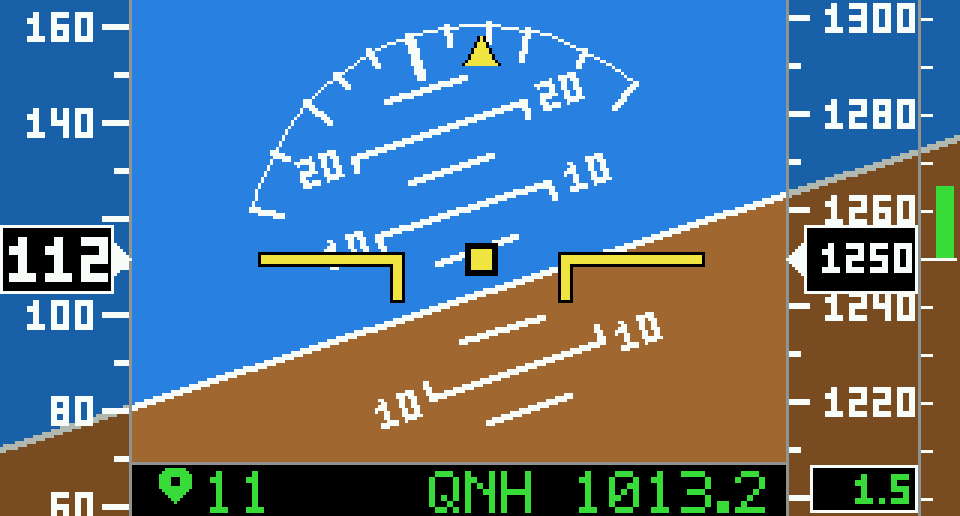
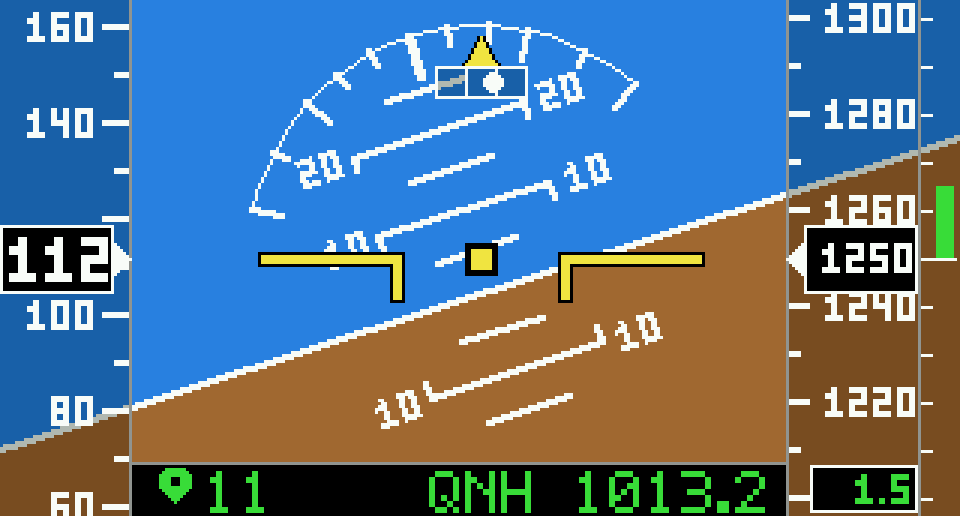
Lageschätzung: Mahony-Filter, Gyro-Bias, Slip-Kugel, GPS-Kompensation
Claude-Session: https://claude.ai/code/session_0141NmNNkgzSpP7MuuVZi8hL

Changed region(s): [[0.4375, 0.124, 0.5625, 0.2171]]

diff --git a/main/main.c b/main/main.c
@@ -367,6 +367,7 @@ typedef struct {
     bool  gps;                 // GPS empfängt gültige Daten
     int   sats;                // Anzahl Satelliten
     float qnh;                 // eingestelltes QNH in hPa
+    float slip;                // Kugel: -1 (links) .. +1 (rechts)
 } tapes_t;
 
 static void scale_init(void)
@@ -528,6 +529,25 @@ static void draw_status(const tapes_t *tp)
     draw_text(x1 - 8 - text_w(b, 2) + 1, y0 + 3, b, 2, COL_GREEN);
 }
 
+/* ---- Slip/Skid-Anzeige (Kugel) unter dem Rollzeiger ---- */
+static void draw_slip(float slip)
+{
+    const int bx = CX - 15, by = CY - ROLL_R + 14, bw = 31, bh = 11;
+    // shade(bx, bx + bw, by, by + bh);                   // halbtransparent wie die Bänder
+    box(bx, by, bw, 1, COL_WHITE);
+    box(bx, by + bh - 1, bw, 1, COL_WHITE);
+    box(bx, by, 1, bh, COL_WHITE);
+    box(bx + bw - 1, by, 1, bh, COL_WHITE);
+    box(CX - 5, by, 1, bh, COL_WHITE);                 // Mittenmarken
+    box(CX + 5, by, 1, bh, COL_WHITE);
+    if (slip > 1.0f) slip = 1.0f;
+    if (slip < -1.0f) slip = -1.0f;
+    const int cx = CX + (int)lroundf(slip * 10.0f), cy = by + bh / 2;
+    for (int dy = -3; dy <= 3; dy++)
+        for (int dx = -3; dx <= 3; dx++)
+            if (dx * dx + dy * dy <= 11) box(cx + dx, cy + dy, 1, 1, COL_WHITE);
+}
+
 static void render(float roll, float pitch, const tapes_t *tp)
 {
     const float s = sinf(roll), c = cosf(roll);
@@ -613,6 +633,7 @@ static void render(float roll, float pitch, const tapes_t *tp)
     draw_alt_tape(tp->alt_m, tp->alt_ok);
     draw_vario(tp->vs, tp->vs_ok);
     draw_status(tp);
+    draw_slip(tp->slip);
 
     // --- Flugzeugsymbol ---
     draw_aircraft(5, 2, COL_BLACK);
@@ -744,7 +765,154 @@ static void i2c_devices_init(void)
     }
 }
 
+#ifndef IMU_COMP_GAIN
+#define IMU_COMP_GAIN 1.0f      // 0 = Korrektur aus, -1 = Vorzeichen umkehren
+#endif
 static float g_roll = 0, g_pitch = 0;
+static float g_slip = 0;                    // gefilterte Kugelposition (-1..1)
+// GPS-Geschwindigkeit (m/s) und deren zeitliche Änderung, für die Beschleunigungskorrektur
+static float g_imu_v = 0, g_imu_vdot = 0;
+static bool  g_imu_vok = false;
+
+#ifndef IMU_ACC_TAU
+#define IMU_ACC_TAU 4.0f        // Zeitkonstante der Lagekorrektur durch den Beschleunigungssensor (s)
+#endif
+#ifndef IMU_CAL_TIME
+#define IMU_CAL_TIME 1.5f       // Dauer der Gyro-Kalibrierung nach dem Start (s), Gerät ruhig halten
+#endif
+
+/* ---- Lageschätzung: Mahony-Filter (Quaternion) mit Bias-Schätzung ---- */
+static float qw = 1, qx = 0, qy = 0, qz = 0;     // Lage Körper -> Erde (NED)
+static float g_bias[3] = {0, 0, 0};              // Gyro-Bias (rad/s), Achsen vorn/rechts/unten
+static bool  g_bias_new = false;                 // frisch kalibriert -> speichern
+static float g_trust = 0, g_roll_a = 0, g_pitch_a = 0;   // nur zur Diagnose im Log
+static float cal_t = 0, cal_sum[3], cal_min[3], cal_max[3];
+static int   cal_n = 0;
+static bool  cal_done = false;
+static float fast_t = 0;                         // Schnellausrichtung nach dem Start (s)
+
+/* ATT_BEGIN */
+static void att_from_euler(float r, float p)
+{
+    const float cr = cosf(r / 2), sr = sinf(r / 2), cp = cosf(p / 2), sp = sinf(p / 2);
+    qw = cr * cp; qx = sr * cp; qy = cr * sp; qz = -sr * sp;
+}
+
+static void att_fuse(float fx, float fy, float fz, float p, float q, float rr, float dt)
+{
+    if (dt > 0.1f) dt = 0.1f;
+    float gvx = -fx, gvy = -fy, gvz = -fz;           // gemessene "Lotrechte" (in g)
+
+    // Slip/Skid: seitliche Beschleunigung relativ zur Gesamtbeschleunigung (unkorrigiert, wie eine
+    // echte Libelle). Voller Ausschlag bei etwa 0,15 g.
+    {
+        float gn = sqrtf(gvx * gvx + gvy * gvy + gvz * gvz);
+        if (gn < 0.5f) gn = 0.5f;
+        float tgt = (gvy / gn) / 0.15f;
+        g_slip += (tgt - g_slip) * (dt / (0.25f + dt));
+    }
+
+    // --- Start: Gyro-Bias messen, solange das Gerät ruhig gehalten wird ---
+    if (!cal_done) {
+        const float gyro[3] = {p, q, rr};
+        if (cal_n == 0) {
+            for (int i = 0; i < 3; i++) { cal_sum[i] = 0; cal_min[i] = cal_max[i] = gyro[i]; }
+        }
+        for (int i = 0; i < 3; i++) {
+            cal_sum[i] += gyro[i];
+            if (gyro[i] < cal_min[i]) cal_min[i] = gyro[i];
+            if (gyro[i] > cal_max[i]) cal_max[i] = gyro[i];
+        }
+        cal_n++;
+        cal_t += dt;
+        // Lage währenddessen direkt aus dem Beschleunigungssensor
+        g_roll_a = atan2f(gvy, gvz);
+        g_pitch_a = atan2f(-gvx, sqrtf(gvy * gvy + gvz * gvz));
+        att_from_euler(g_roll_a, g_pitch_a);
+        if (cal_t >= IMU_CAL_TIME && cal_n >= 10) {
+            bool stable = true;
+            float mean[3];
+            for (int i = 0; i < 3; i++) {
+                mean[i] = cal_sum[i] / cal_n;
+                if (cal_max[i] - cal_min[i] > 0.12f || fabsf(mean[i]) > 0.1f) stable = false;
+            }
+            if (stable) {
+                for (int i = 0; i < 3; i++) g_bias[i] = mean[i];
+                g_bias_new = true;
+            }
+            cal_done = true;
+            fast_t = 3.0f;                           // 3 s lang schnell einrasten
+        }
+        g_roll = g_roll_a; g_pitch = g_pitch_a;
+        return;
+    }
+
+    const float wx = p - g_bias[0], wy = q - g_bias[1], wz = rr - g_bias[2];
+
+    // --- Fahrzeugbeschleunigung herausrechnen: a = w x V + dV/dt mit V = (v, 0, 0) ---
+    // Der Beschleunigungssensor misst Schwerkraft MINUS Fahrzeugbeschleunigung.
+    if (g_imu_vok && g_imu_v > 2.0f) {
+        gvx += IMU_COMP_GAIN * g_imu_vdot / 9.81f;           // Längsbeschleunigung
+        gvy += IMU_COMP_GAIN * wz * g_imu_v / 9.81f;         // Zentripetal (Kurve)
+        gvz -= IMU_COMP_GAIN * wy * g_imu_v / 9.81f;         // Zentripetal (Nicken)
+    }
+    const float gm = sqrtf(gvx * gvx + gvy * gvy + gvz * gvz);
+    g_roll_a = atan2f(gvy, gvz);
+    g_pitch_a = atan2f(-gvx, sqrtf(gvy * gvy + gvz * gvz));
+
+    // --- Vertrauen in den Beschleunigungssensor: nur bei ruhigem Geradeausflug hoch ---
+    float wgt = 1.0f - fabsf(gm - 1.0f) / 0.10f;             // Betrag nahe 1 g
+    if (wgt < 0.0f) wgt = 0.0f;
+    const float rate = sqrtf(wx * wx + wy * wy + wz * wz);   // Drehrate (rad/s)
+    const float wr = 1.0f / (1.0f + (rate / 0.15f) * (rate / 0.15f));
+    float wa = 1.0f;                                         // starkes Bremsen/Beschleunigen
+    if (g_imu_vok) { float k = g_imu_vdot / 1.5f; wa = 1.0f / (1.0f + k * k); }
+    const float trust = wgt * wr * wa;
+    g_trust = trust;
+
+    // geschätzte Lotrechte im Körpersystem
+    const float vx = 2 * (qx * qz - qw * qy);
+    const float vy = 2 * (qy * qz + qw * qx);
+    const float vz = qw * qw - qx * qx - qy * qy + qz * qz;
+    float cx = 0, cy = 0, cz = 0;                            // Korrekturdrehrate
+    if (gm > 0.3f) {
+        const float mx = gvx / gm, my = gvy / gm, mz = gvz / gm;
+        const float ex = my * vz - mz * vy;
+        const float ey = mz * vx - mx * vz;
+        const float ez = mx * vy - my * vx;
+        const float kp0 = 1.0f / IMU_ACC_TAU;
+        float kp = kp0 * trust;
+        if (fast_t > 0) {
+            fast_t -= dt;
+            if (kp < 2.0f * trust) kp = 2.0f * trust;        // Schnellausrichtung nach dem Start (nur bei ruhigem Zustand)
+        } else {
+            const float ki = 0.25f * kp0 * kp0 * trust;      // Bias nachlernen, nur bei hohem Vertrauen
+            g_bias[0] -= ki * ex * dt; g_bias[1] -= ki * ey * dt; g_bias[2] -= ki * ez * dt;
+            for (int i = 0; i < 3; i++) {
+                if (g_bias[i] > 0.1f) g_bias[i] = 0.1f;
+                if (g_bias[i] < -0.1f) g_bias[i] = -0.1f;
+            }
+        }
+        cx = kp * ex; cy = kp * ey; cz = kp * ez;
+    }
+
+    // --- Quaternion integrieren ---
+    const float ox = wx + cx, oy = wy + cy, oz = wz + cz;
+    const float dqw = 0.5f * (-qx * ox - qy * oy - qz * oz);
+    const float dqx = 0.5f * ( qw * ox + qy * oz - qz * oy);
+    const float dqy = 0.5f * ( qw * oy - qx * oz + qz * ox);
+    const float dqz = 0.5f * ( qw * oz + qx * oy - qy * ox);
+    qw += dqw * dt; qx += dqx * dt; qy += dqy * dt; qz += dqz * dt;
+    const float n = 1.0f / sqrtf(qw * qw + qx * qx + qy * qy + qz * qz);
+    qw *= n; qx *= n; qy *= n; qz *= n;
+
+    g_roll = atan2f(2 * (qw * qx + qy * qz), 1 - 2 * (qx * qx + qy * qy));
+    float sp = 2 * (qw * qy - qz * qx);
+    if (sp > 1.0f) sp = 1.0f;
+    if (sp < -1.0f) sp = -1.0f;
+    g_pitch = asinf(sp);
+}
+/* ATT_END */
 
 static void imu_update(float dt)
 {
@@ -758,27 +926,8 @@ static void imu_update(float dt)
     float ax = r[0] * ka, ay = r[1] * ka, az = r[2] * ka;
     float gx = r[3] * kg, gy = r[4] * kg, gz = r[5] * kg;
 
-    float fx = MAP_FWD(ax, ay, az), fy = MAP_RIGHT(ax, ay, az), fz = MAP_DOWN(ax, ay, az);
-    float p = MAP_FWD(gx, gy, gz), q = MAP_RIGHT(gx, gy, gz), rr = MAP_DOWN(gx, gy, gz);
-
-    float gvx = -fx, gvy = -fy, gvz = -fz;
-    float roll_a = atan2f(gvy, gvz);
-    float pitch_a = atan2f(-gvx, sqrtf(gvy * gvy + gvz * gvz));
-
-    float sp = sinf(g_roll), cp = cosf(g_roll);
-    float tt = tanf(g_pitch);
-    if (tt > 5.0f) tt = 5.0f;
-    if (tt < -5.0f) tt = -5.0f;
-    g_roll  += (p + (q * sp + rr * cp) * tt) * dt;
-    g_pitch += (q * cp - rr * sp) * dt;
-
-    const float tau = 0.8f;
-    float k = dt / (tau + dt);
-    float dr = roll_a - g_roll;
-    while (dr > PI_F) dr -= 2 * PI_F;
-    while (dr < -PI_F) dr += 2 * PI_F;
-    g_roll += k * dr;
-    g_pitch += k * (pitch_a - g_pitch);
+    att_fuse(MAP_FWD(ax, ay, az), MAP_RIGHT(ax, ay, az), MAP_DOWN(ax, ay, az),
+             MAP_FWD(gx, gy, gz), MAP_RIGHT(gx, gy, gz), MAP_DOWN(gx, gy, gz), dt);
 }
 
 /* ------------------------------------------------------------------ */
@@ -839,6 +988,11 @@ void app_main(void)
 
     const bool demo = FORCE_DEMO || !imu_ok;
     float roll_trim = 0, pitch_trim = 0;
+    float bias_saved[3] = {0, 0, 0};
+    if (settings_load_bias(bias_saved)) {
+        for (int i = 0; i < 3; i++) g_bias[i] = bias_saved[i];
+        ESP_LOGI(TAG, "Gyro-Bias geladen: %.2f %.2f %.2f Grad/s", bias_saved[0] * RAD2DEG, bias_saved[1] * RAD2DEG, bias_saved[2] * RAD2DEG);
+    }
     {
         float r, p;
         if (settings_load_trim(&r, &p)) {
@@ -933,7 +1087,36 @@ void app_main(void)
             roll = 35.0f * DEG2RAD * sinf(0.7f * t);
             pitch = 15.0f * DEG2RAD * sinf(0.45f * t);
         } else {
+            {
+                // GPS-Geschwindigkeit und -Beschleunigung für die Korrektur bereitstellen
+                static uint32_t last_cnt = 0;
+                static int64_t last_t = 0;
+                static float last_v = 0;
+                g_imu_vok = g_sens.gps_valid;
+                g_imu_v = g_sens.gps_speed_kmh / 3.6f;
+                if (g_sens.gps_nmea != last_cnt) {
+                    last_cnt = g_sens.gps_nmea;
+                    float gdt = (now - last_t) * 1e-6f;
+                    if (gdt >= 0.5f && gdt < 3.0f) {
+                        float a = (g_imu_v - last_v) / gdt;
+                        g_imu_vdot += 0.5f * (a - g_imu_vdot);      // glätten
+                        last_t = now; last_v = g_imu_v;
+                    } else if (gdt >= 3.0f) {
+                        g_imu_vdot = 0; last_t = now; last_v = g_imu_v;
+                    }
+                }
+                if (!g_imu_vok) g_imu_vdot = 0;
+            }
             imu_update(dt);
+            if (g_bias_new) {                       // Start-Kalibrierung erfolgreich
+                g_bias_new = false;
+                ESP_LOGI(TAG, "Gyro-Bias gemessen: %.2f %.2f %.2f Grad/s", g_bias[0] * RAD2DEG, g_bias[1] * RAD2DEG, g_bias[2] * RAD2DEG);
+                if (fabsf(g_bias[0] - bias_saved[0]) > 0.003f || fabsf(g_bias[1] - bias_saved[1]) > 0.003f ||
+                    fabsf(g_bias[2] - bias_saved[2]) > 0.003f) {
+                    for (int i = 0; i < 3; i++) bias_saved[i] = g_bias[i];
+                    settings_save_bias(bias_saved);
+                }
+            }
             if (trim_req) {
                 roll_trim = g_roll;
                 pitch_trim = g_pitch;
@@ -967,6 +1150,7 @@ void app_main(void)
         tp.gps = g_sens.gps_valid;
         tp.sats = g_sens.gps_sats;
 #endif
+        tp.slip = demo ? 0.6f * sinf(0.4f * t) : g_slip;
         tp.qnh = sensors_get_qnh_hpa();
 
         cur = fb[ib];
@@ -979,8 +1163,9 @@ void app_main(void)
         ib ^= 1;
 
         if (++frames >= 60) {
-            ESP_LOGI(TAG, "%.1f fps | roll %.1f pitch %.1f | spd %.0f km/h alt %.1f m vs %.2f m/s | gps %d sats %d | rx %u B, %u msg @%d",
+            ESP_LOGI(TAG, "%.1f fps | roll %.1f pitch %.1f (acc %.1f %.1f, trust %.2f) | spd %.0f km/h alt %.1f m vs %.2f m/s | gps %d sats %d | rx %u B, %u msg @%d",
                      frames * 1e6f / (now - fps_t), roll * RAD2DEG, pitch * RAD2DEG,
+                     g_roll_a * RAD2DEG, g_pitch_a * RAD2DEG, g_trust,
                      tp.spd_kmh, tp.alt_m, tp.vs, (int)g_sens.gps_valid, (int)g_sens.gps_sats,
                      (unsigned)g_sens.gps_bytes, (unsigned)g_sens.gps_nmea, (int)g_sens.gps_baud);
             frames = 0;

diff --git a/main/settings.c b/main/settings.c
@@ -60,6 +60,25 @@ bool settings_load_trim(float *roll_rad, float *pitch_rad)
     return false;
 }
 
+bool settings_load_bias(float b[3])
+{
+    float x, y, z;
+    if (get_f("gyro_bx", &x) && get_f("gyro_by", &y) && get_f("gyro_bz", &z) &&
+        fabsf(x) < 0.2f && fabsf(y) < 0.2f && fabsf(z) < 0.2f) {
+        b[0] = x; b[1] = y; b[2] = z;
+        return true;
+    }
+    return false;
+}
+
+void settings_save_bias(const float b[3])
+{
+    set_f("gyro_bx", b[0]);
+    set_f("gyro_by", b[1]);
+    set_f("gyro_bz", b[2]);
+    if (ok) nvs_commit(h);
+}
+
 void settings_save_qnh(float qnh_hpa)
 {
     set_f("qnh", qnh_hpa);

diff --git a/main/settings.h b/main/settings.h
@@ -7,5 +7,8 @@ void settings_init(void);
 bool settings_load_qnh(float *qnh_hpa);                       // false = nichts gespeichert
 bool settings_load_trim(float *roll_rad, float *pitch_rad);   // false = nichts gespeichert
 
+bool settings_load_bias(float b[3]);                          // Gyro-Bias (rad/s), false = nichts gespeichert
+
 void settings_save_qnh(float qnh_hpa);
+void settings_save_bias(const float b[3]);
 void settings_save_trim(float roll_rad, float pitch_rad);
